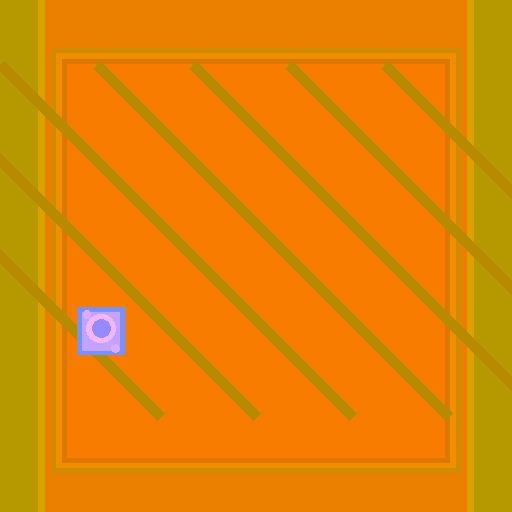
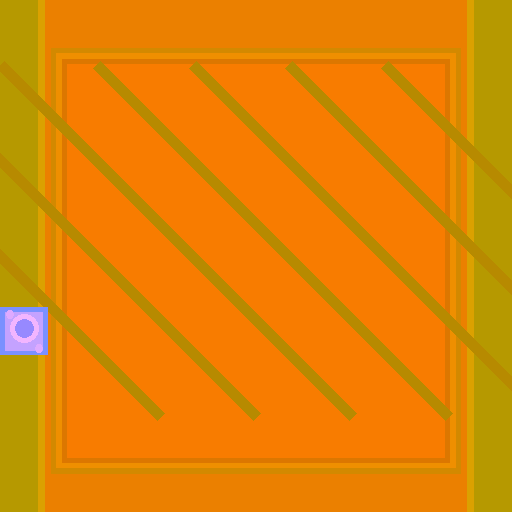
Fix door handle UV placement and document LabPBR setup

Changed region(s): [[0.125, 0.5938, 0.25, 0.7188], [0.0, 0.5938, 0.0938, 0.7188]]

diff --git a/scripts/prepare-shaped-layouts.py b/scripts/prepare-shaped-layouts.py
@@ -32,14 +32,17 @@ class Layout:
   self.rect((x1+.5,y1+.5,x2-.5,y2-.5),248,124)
   if open:self.hole((x1+.55,y1+.55,x2-.55,y2-.55))
  def handle(self):
-  # Recessed escutcheon, raised knob and two small fasteners. All details
-  # stay within the existing opaque hardware area and remain a metal ID mask.
-  self.rect((2.4,9.6,3.9,11.1),122,144,True)
-  self.rect((2.55,9.74,3.75,10.96),196,162,True)
-  self.ellipse((2.7,9.8,3.6,10.7),242,181,True)
-  self.ellipse((2.86,9.96,3.44,10.54),151,137,True)
-  self.ellipse((2.58,9.7,2.82,9.94),222,170,True)
-  self.ellipse((3.48,10.76,3.72,11.0),222,170,True)
+  # Put the knob against the latch-side edge, matching the vanilla door UV
+  # island. Door hinge models mirror this UV for the opposite hinge/face, so a
+  # single edge-anchored handle lands on the correct side in every state.
+  # All details stay in the opaque edge stile and carry the metal-ID mask.
+  dx=-2.4
+  self.rect((2.4+dx,9.6,3.9+dx,11.1),122,144,True)
+  self.rect((2.55+dx,9.74,3.75+dx,10.96),196,162,True)
+  self.ellipse((2.7+dx,9.8,3.6+dx,10.7),242,181,True)
+  self.ellipse((2.86+dx,9.96,3.44+dx,10.54),151,137,True)
+  self.ellipse((2.58+dx,9.7,2.82+dx,9.94),222,170,True)
+  self.ellipse((3.48+dx,10.76,3.72+dx,11.0),222,170,True)
  def frame(self):
   self.rect((0,0,1.4,16),182,153);self.rect((14.6,0,16,16),182,153)
   self.rect((1.2,0,1.4,16),219,161);self.rect((14.6,0,14.8,16),219,161)
@@ -61,7 +64,7 @@ def door(wood,part):
    a.line([(3.0,3),(13,13)],1.2,205,169)
    a.line([(13,3),(3,13)],1.2,205,169)
   else:
-   a.panel((1.8,1.5,14.2,14.7));a.rect((10.5,1.8,13,4.5),165,169,True);a.rect((11.2,2.1,12.4,3.7),235,180,True)
+   a.panel((1.8,1.5,14.2,14.7));a.handle()
  elif wood=='acacia':
   a.rect((1.3,2,14.7,12.5),175,148)
   for x in (3,6.5,10): a.hole((x,2.6,x+2.1,11.7))

diff --git a/tests/cli.rs b/tests/cli.rs
@@ -1354,6 +1354,7 @@ fn shaped_block_layouts_preserve_cutouts_hardware_and_pbr() {
         "oak_door_bottom",
         "oak_trapdoor",
         "copper_door_top",
+        "copper_door_bottom",
         "lever",
         "ladder",
         "iron_bars",
@@ -1426,8 +1427,11 @@ fn shaped_block_layouts_preserve_cutouts_hardware_and_pbr() {
         .pixels
         .chunks_exact(4)
         .any(|p| p[0] != 128 || p[1] != 128));
-    // Wood keeps dielectric F0; the drawn latch becomes a discrete iron ID.
-    assert_eq!(at("oak_door_bottom", "_s", 25, 82)[1], 230);
+    // Wood keeps dielectric F0; the edge-aligned knob becomes a discrete iron
+    // ID. Its old, three-pixel-inboard location is intentionally plain wood.
+    assert_eq!(at("oak_door_bottom", "_s", 5, 82)[1], 230);
+    assert_eq!(at("oak_door_bottom", "_s", 25, 82)[1], 10);
+    assert_eq!(at("copper_door_bottom", "_s", 5, 82)[1], 230);
     assert_eq!(at("oak_door_bottom", "_s", 64, 64)[1], 10);
     assert_eq!(at("iron_bars", "_s", 20, 60)[1], 230);
     assert_eq!(at("copper_door_top", "_s", 16, 40)[1], 234);

diff --git a/docs/PBR_TECHNIQUE_RESEARCH.md b/docs/PBR_TECHNIQUE_RESEARCH.md
@@ -28,9 +28,19 @@ included in this project.
 - **Doors need coherent microdetail, not displaced panels.** Keep the vanilla
   sprite layout, hinges, opening states, UVs and transparency masks; align grain,
   normal, roughness and shallow panel bevel cues. Avoid strong height steps that
-  make a flat door look inflated. The pack's global strength is 0.2, and the
-  47 existing door/trapdoor/ladder/bar opacity masks remain unchanged from the
-  previous preview.
+  make a flat door look inflated. The pinned [Java 26.3 door model UVs](https://github.com/InventivetalentDev/minecraft-assets/blob/6c088630459d8ca369ef0d6c07636d7d63a3b0f1/assets/minecraft/models/block/door_bottom_left.json)
+  and matching right-hinge model mirror the large faces. The fixed procedural
+  handle was consequently moved to the latch-side UV edge so the model's
+  left/right hinge and face flips place it on the correct side; the panel's
+  alpha/cutout remains unchanged. The pack's global strength is 0.2, and the
+  47 door/trapdoor/ladder/bar opacity masks are unchanged.
+- **Use aligned sidecars for partial/cutout sprites too.** The public
+  [Vanilla Normals Renewed tree](https://github.com/Poudingue/Vanilla-Normals-Renewed/tree/70d89ee4d401a27c4518ebab3b13897c2a6b6921/assets/minecraft/textures/block)
+  includes separate `_n` and `_s` files alongside door top/bottom and trapdoor
+  sprites. We adopt that conventional Java shader-pack layout, but generate our
+  own maps from licensed/source-controlled material data and construction
+  masks; no artwork from that repository is copied. Its repository has no
+  declared license, so it is treated only as a path-convention reference.
 - **Glass benefits from restraint.** Preserve transparency and the pane-cap
   model/UV silhouettes, but avoid painted frame bands; keep the surface response
   uniform and let shader reflections provide subtle highlights. Connected-texture

diff --git a/docs/SHADER_SETUP.md b/docs/SHADER_SETUP.md
@@ -38,6 +38,24 @@ include the settings above. Other good free options include Complementary
 Unbound; configure its **RP Support** as labPBR. Individual shaders differ in
 handling emission, AO, SSS, porosity and metal IDs.
 
+### BSL Shaders
+
+The screenshot supplied for the door report shows BSL selected. Selecting the
+shader alone does not activate resource-pack maps: in BSL's **Shader Pack
+Settings → Materials**, turn **Advanced Materials** on and set **Material
+Format** to **LabPBR 1.3**. Verify normal and specular mapping are enabled in
+the advanced material options, then press F3+T to reload assets. BSL is listed
+as LabPBR 1.3-compatible by the [shaderLABS supported-packs list](https://shaderlabs.org/wiki/LabPBR_Supported_Packs).
+The exact menu path may differ between BSL versions.
+
+Doors and trapdoors are not excluded because their sprites contain cutout
+transparency or because their models are not full cubes. This pack emits
+aligned `<texture>_n.png` and `<texture>_s.png` LabPBR sidecars for every
+covered block sprite, including those shapes. The color-map alpha continues to
+define the door/window cutouts; shader support and correct resource-pack order
+are still required for the extra maps to show. A visible before/after
+comparison is still needed to confirm your specific BSL version and settings.
+
 ## Verify that PBR is active
 
 Vanilla Minecraft without a compatible shader only displays the color maps.
